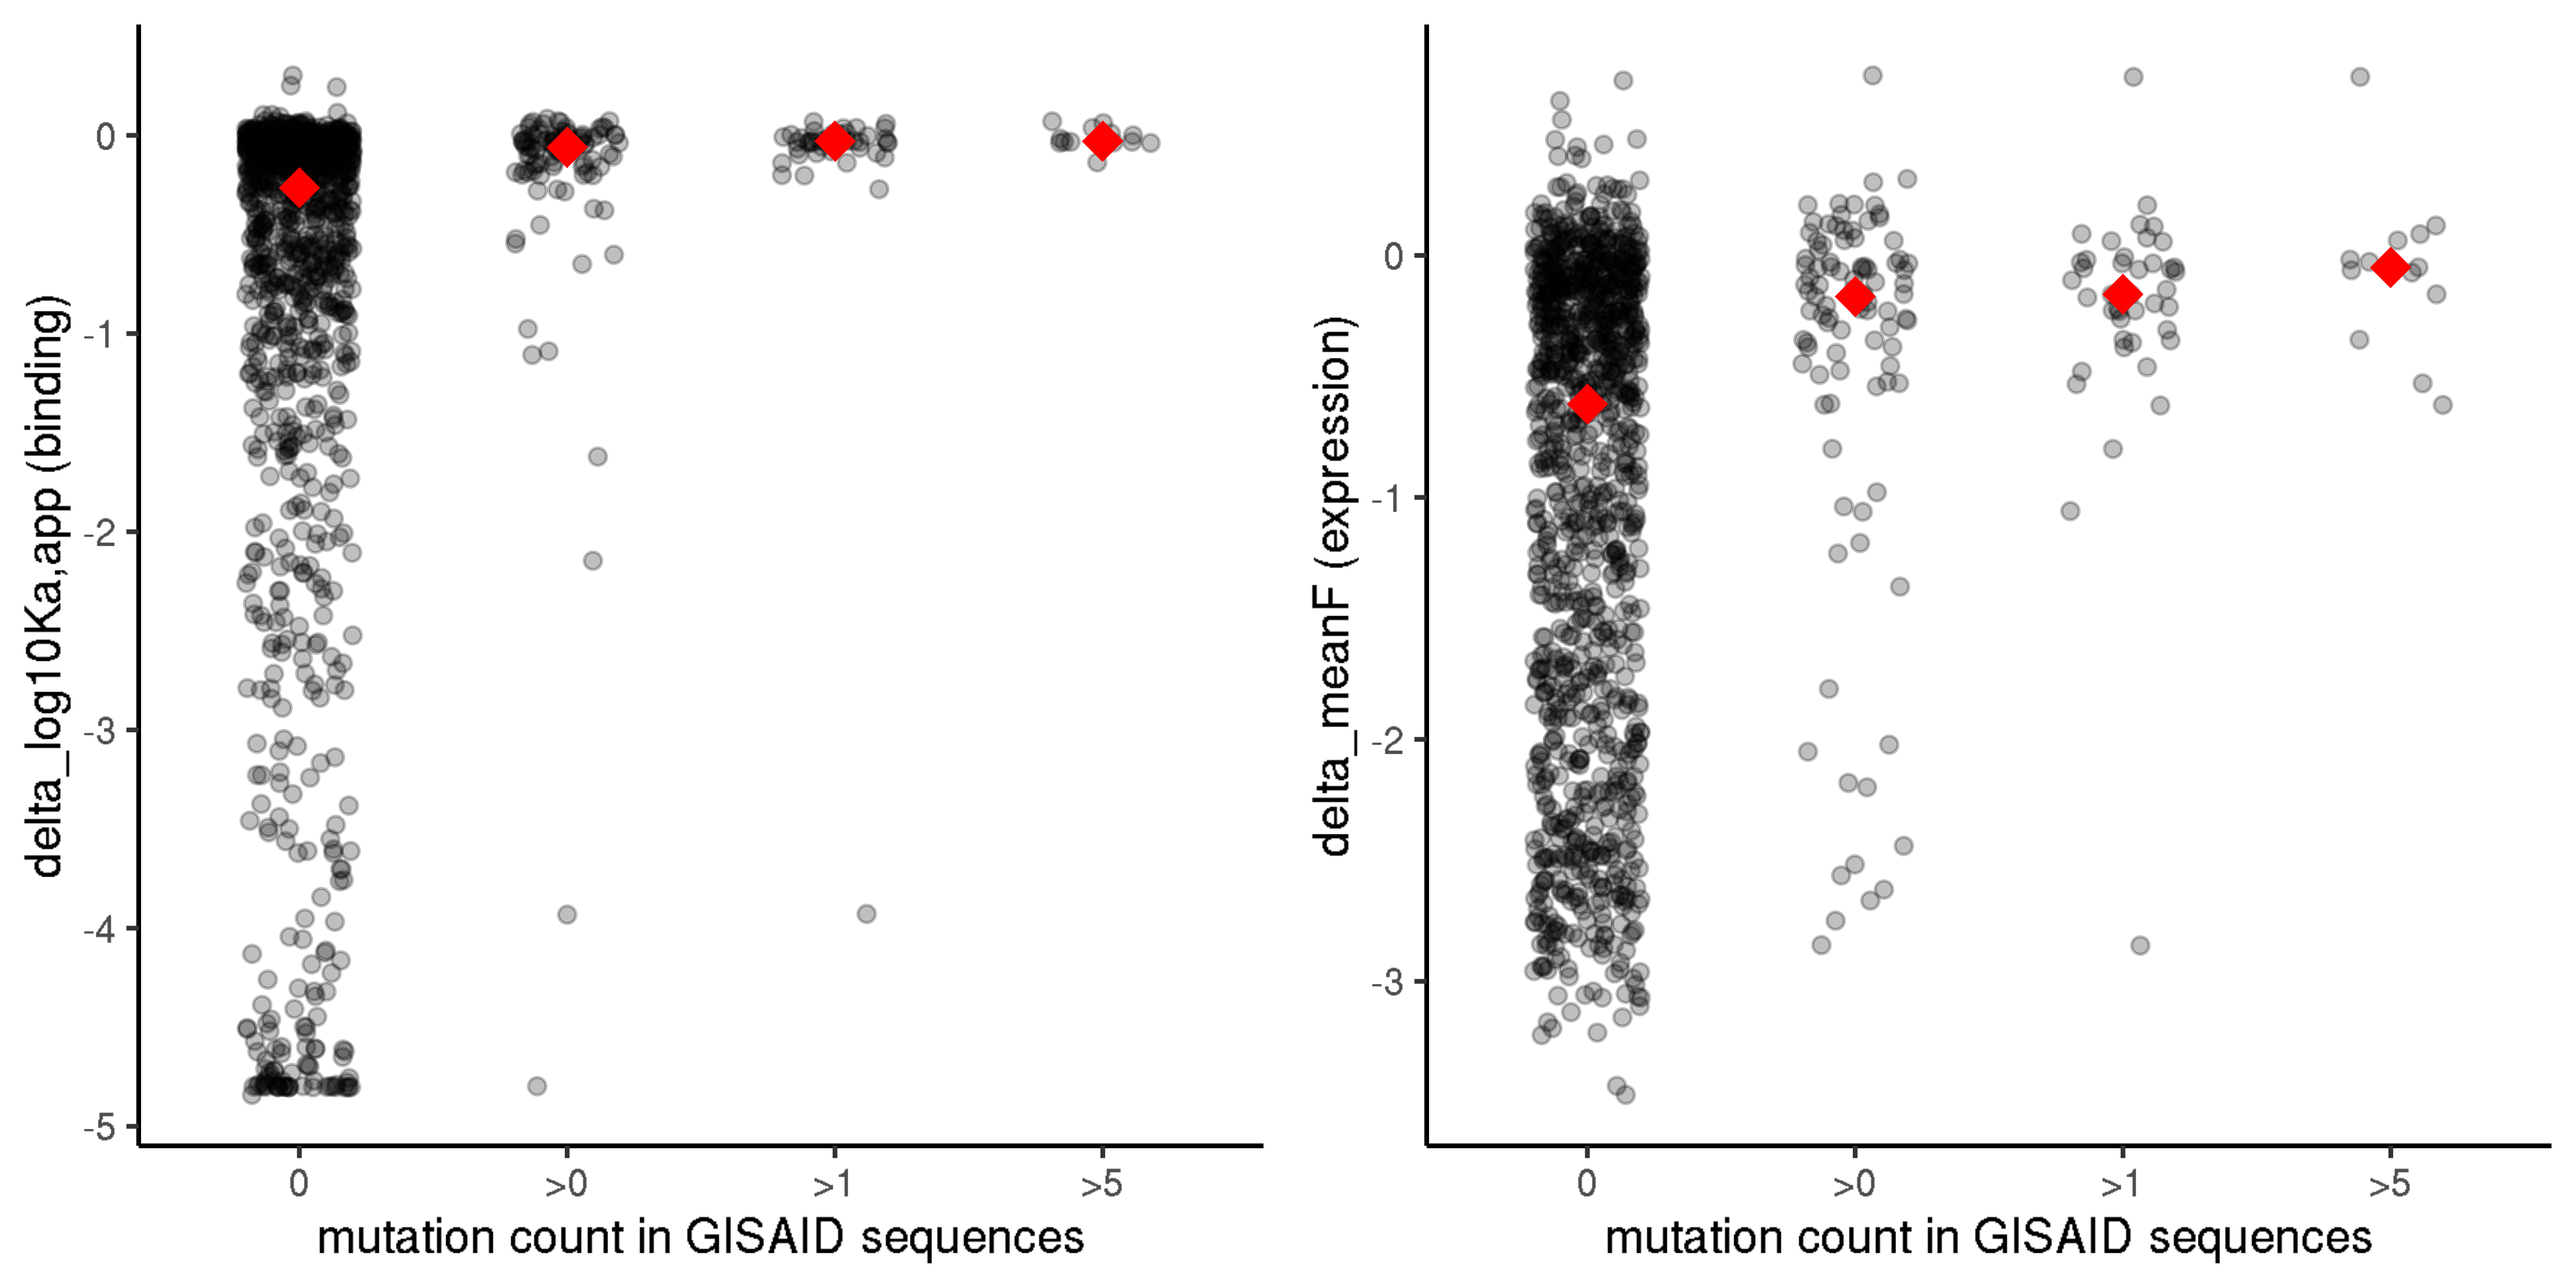
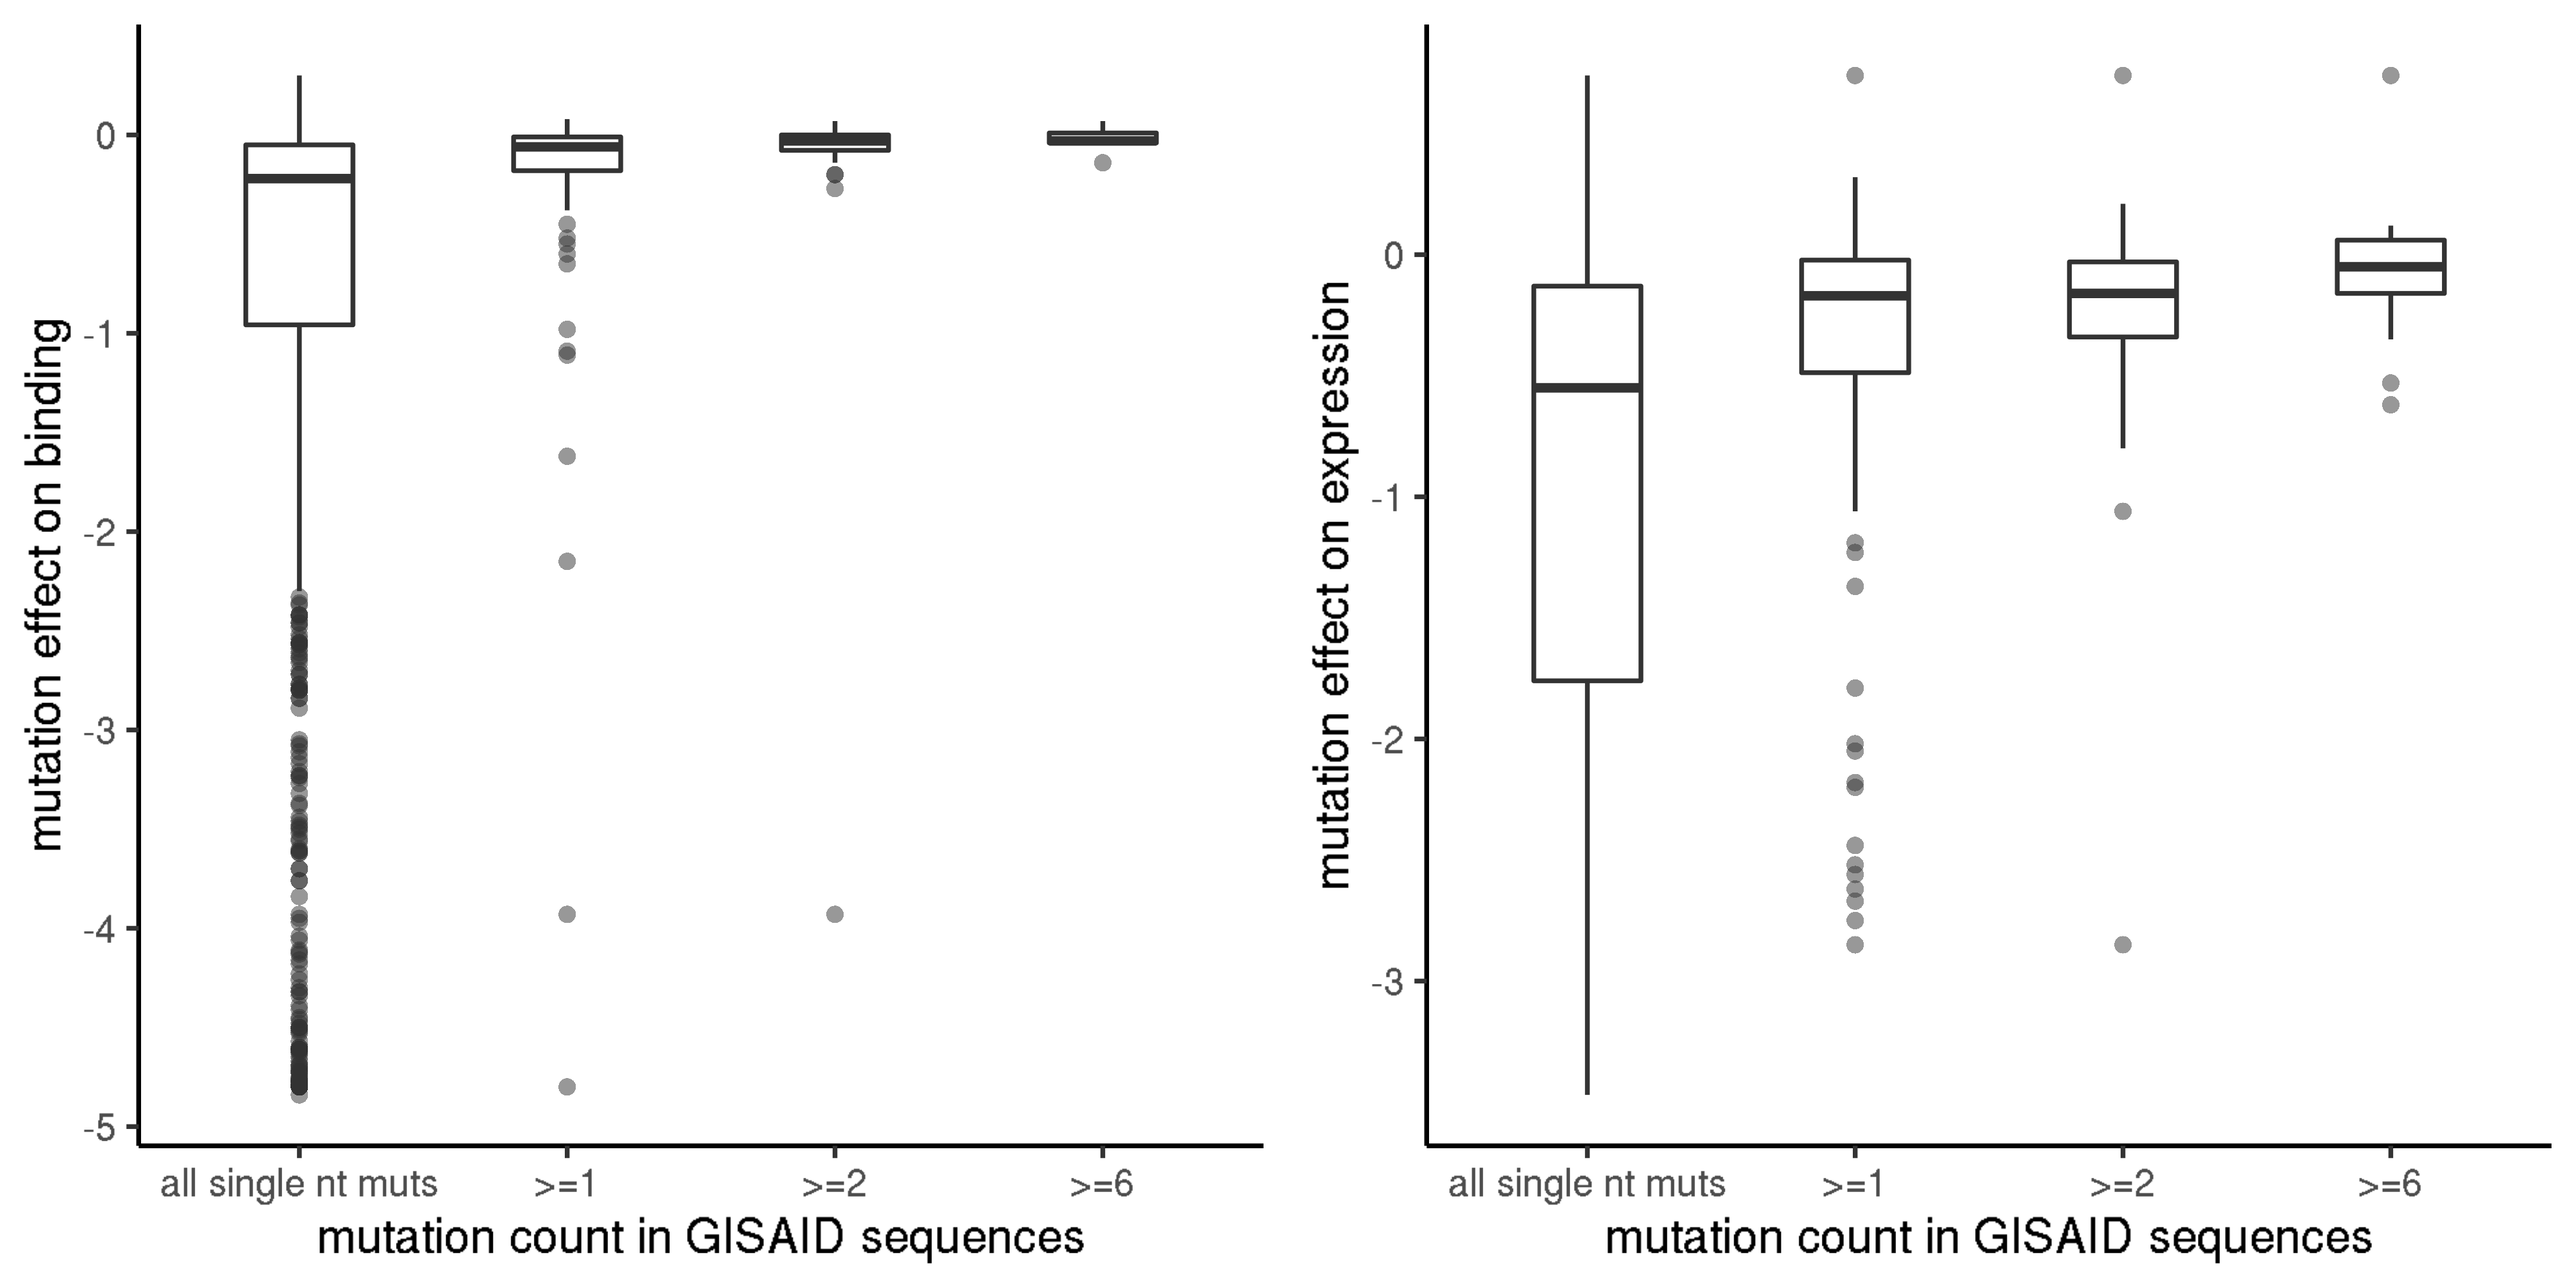
Swap boxplots for stripplots circulating variants

diff --git a/results/summary/circulating_variants.md b/results/summary/circulating_variants.md
@@ -308,13 +308,13 @@ get.codon.muts <- function(codon){
   codon_split <- strsplit(codon,split="")[[1]]
   codon_muts <- vector()
   for(i in nt[nt!=codon_split[1]]){
-    codon_muts <- c(codon_muts,translate(c(i,codon_split[2:3])))
+    codon_muts <- c(codon_muts,seqinr::translate(c(i,codon_split[2:3])))
   }
   for(i in nt[nt!=codon_split[2]]){
-    codon_muts <- c(codon_muts,translate(c(codon_split[1],i,codon_split[3])))
+    codon_muts <- c(codon_muts,seqinr::translate(c(codon_split[1],i,codon_split[3])))
   }
   for(i in nt[nt!=codon_split[3]]){
-    codon_muts <- c(codon_muts,translate(c(codon_split[1:2],i)))
+    codon_muts <- c(codon_muts,seqinr::translate(c(codon_split[1:2],i)))
   }
   return(codon_muts)
 }
@@ -357,8 +357,8 @@ effect of single-nt mutants = -0.22; median mutational effect of all
 amino acid muts = -0.34; P-value 2.3^{-4}, Wilcoxon rank-sum test.)
 
 To illustrate how selection acts on circulating variants, let’s compare
-the functional effects of observed mutations to those observed zero
-times. The violin plots below show the distribution of functional
+the functional effects of mutations, binned by number of observations in
+GISAID. The violin plots below show the distribution of functional
 effects on binding (left) and expression (right), comparing single-nt
 amino acid mutations with 0 observed counts in GISAID versus
 increasingly stringent GISAID count cutoffs. We can see a bias among
